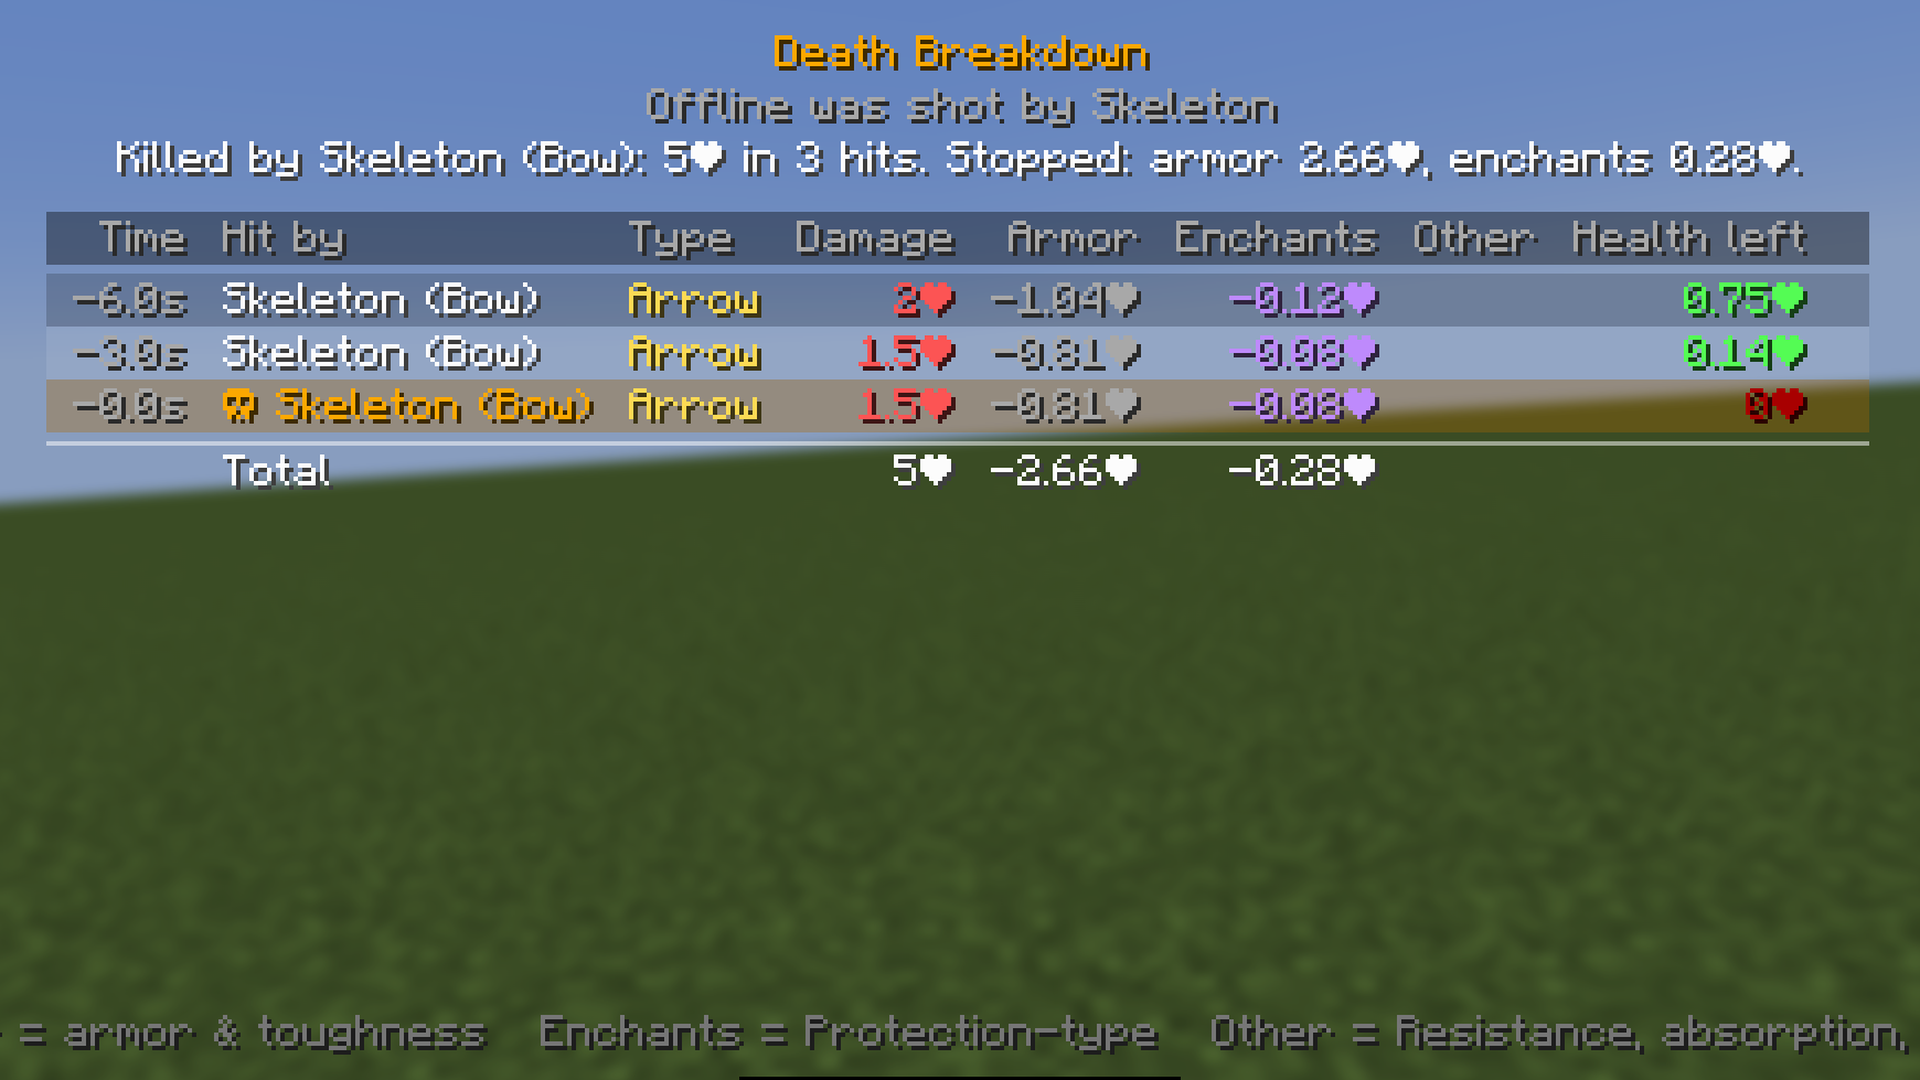
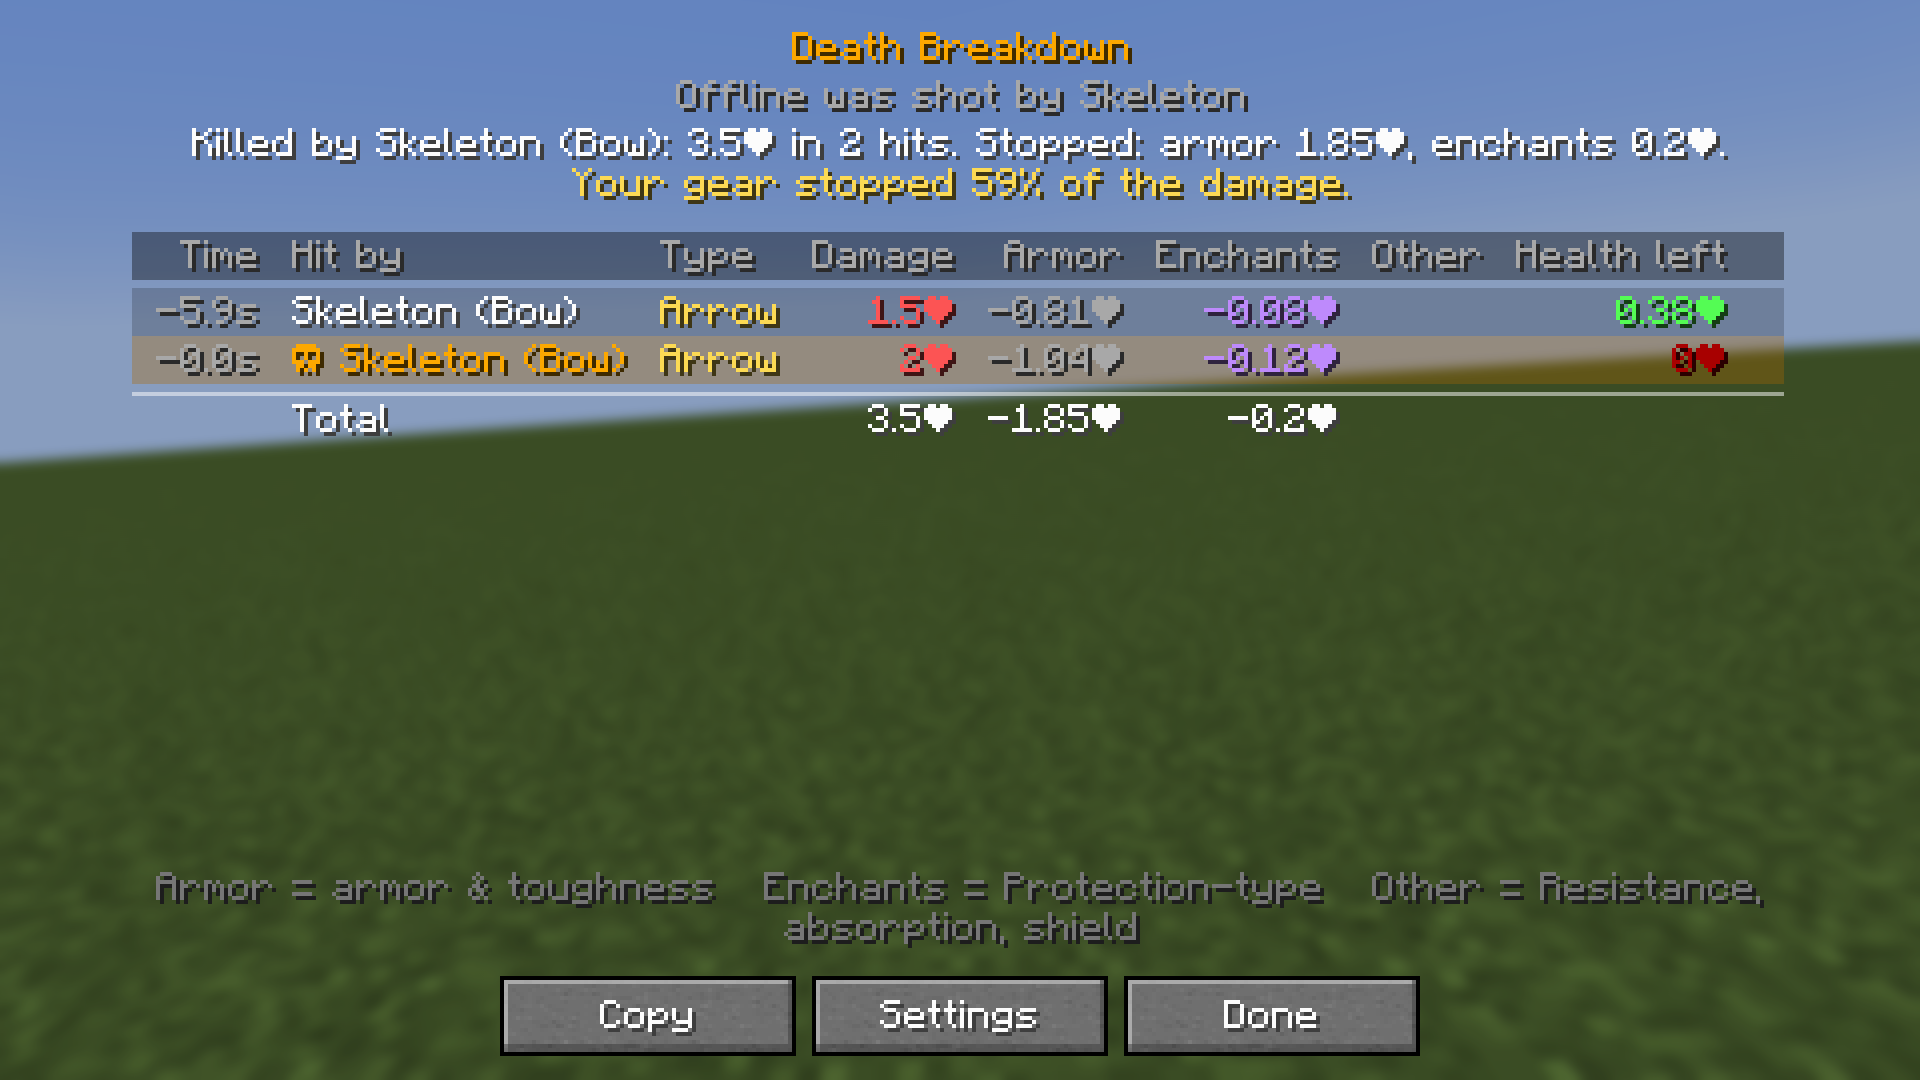
Recap legend wraps between entries, never inside one; 1.1.0 gallery shots picked (chat close-ups)
Claude-Session: https://claude.ai/code/session_018RUrFUNWZAZWJggZqgw4K9

Changed region(s): [[0.0, 0.0306, 1.0, 0.4889], [0.0, 0.7944, 1.0, 1.0], [0.7188, 0.7944, 0.9375, 0.8556]]

diff --git a/art/source/pick_shots.py b/art/source/pick_shots.py
@@ -1,0 +1,31 @@
+"""Copies the gallery screenshots (from the gallery-shots branch, downloaded to a folder) into art/gallery/shots.
+Chat pictures (taken at GUI scale 3) are cropped to the chat corner and scaled up to 1920x1080 so the text fills
+the frame. Everything else is used as taken. Usage: python3 pick_shots.py <downloaded folder> [mod|plugin|all]"""
+import os, shutil, sys
+from PIL import Image
+
+OUT = os.path.join(os.path.dirname(__file__), '..', 'gallery', 'shots')
+AS_IS = {
+    'mod': ['fight', 'death-screen', 'recap-mobs', 'recap-lava', 'recap-creeper', 'recap-hover', 'settings', 'key-binds', 'reopen'],
+    'plugin': ['fight', 'death-chat', 'chat-hover', 'book-mobs', 'book-mobs-page2', 'book-lava', 'book-creeper'],
+}
+CHAT = {'mod': ['chat-line', 'help', 'history'], 'plugin': ['help', 'history']}
+BOX = (0, 504, 1024, 1080)  # the chat corner at GUI scale 3 (16:9)
+
+
+def main(src, which):
+    os.makedirs(OUT, exist_ok=True)
+    for side in (['mod', 'plugin'] if which == 'all' else [which]):
+        for n in AS_IS[side]:
+            f = os.path.join(src, f'{side}-{n}.png')
+            if os.path.exists(f):
+                shutil.copy(f, os.path.join(OUT, f'{side}-{n}.png'))
+        for n in CHAT[side]:
+            f = os.path.join(src, f'{side}-{n}.png')
+            if os.path.exists(f):
+                Image.open(f).convert('RGB').crop(BOX).resize((1920, 1080), Image.LANCZOS).save(os.path.join(OUT, f'{side}-{n}.png'))
+    print('picked into', os.path.abspath(OUT))
+
+
+if __name__ == '__main__':
+    main(sys.argv[1], sys.argv[2] if len(sys.argv) > 2 else 'all')

diff --git a/core/src/main/java/com/cosmiclogic/deathbreakdown/core/RecapText.java b/core/src/main/java/com/cosmiclogic/deathbreakdown/core/RecapText.java
@@ -185,6 +185,24 @@ public final class RecapText {
     /** Explains the columns under the table; split into as many lines as the screen needs. */
     public static final String LEGEND = "Armor = armor & toughness   Enchants = Protection-type   Other = Resistance, absorption, shield";
 
+    /** Measures text in pixels (the game's font). */
+    public interface Width { int of(String s); }
+
+    /**
+     * Splits the legend into lines without breaking an entry ("Other = Resistance, absorption, shield" stays whole).
+     * An entry wider than {@code max} on its own gets its own line (the caller can word-wrap it).
+     */
+    public static java.util.List<String> legendLines(Width w, int max) {
+        java.util.List<String> out = new java.util.ArrayList<String>();
+        String cur = "";
+        for (String part : LEGEND.split("   ")) {
+            String t = cur.isEmpty() ? part : cur + "   " + part;
+            if (!cur.isEmpty() && w.of(t) > max) { out.add(cur); cur = part; } else cur = t;
+        }
+        if (!cur.isEmpty()) out.add(cur);
+        return out;
+    }
+
     /** "2 min ago", "just now", for the history list. */
     public static String ago(long thenMs, long nowMs) {
         long s = Math.max(0, (nowMs - thenMs) / 1000);

diff --git a/core/src/test/java/com/cosmiclogic/deathbreakdown/core/CoreTest.java b/core/src/test/java/com/cosmiclogic/deathbreakdown/core/CoreTest.java
@@ -425,6 +425,15 @@ public final class CoreTest {
         yes(!c.problems.isEmpty(), "folder reported");
     }
 
+    public static void testLegendKeepsEntriesWhole() {
+        RecapText.Width chars = new RecapText.Width() { public int of(String s) { return s.length(); } };
+        eq(1, RecapText.legendLines(chars, 500).size()); // wide window: one line
+        java.util.List<String> two = RecapText.legendLines(chars, 70);
+        eq(2, two.size());
+        eq("Other = Resistance, absorption, shield", two.get(1)); // never split inside an entry
+        eq(3, RecapText.legendLines(chars, 40).size());
+    }
+
     public static void testAllColumnsOffKeepsOne() throws Exception {
         File f = new File("build/coretest/cols-" + System.nanoTime() + ".properties");
         java.io.FileOutputStream o = new java.io.FileOutputStream(f);

diff --git a/ports/forge-1.12.2/src/main/java/com/cosmiclogic/deathbreakdown/legacy/RecapScreen112.java b/ports/forge-1.12.2/src/main/java/com/cosmiclogic/deathbreakdown/legacy/RecapScreen112.java
@@ -57,7 +57,11 @@ public class RecapScreen112 extends GuiScreen {
         summary = wrap(RecapText.summary(recap, hearts), Math.max(200, width - 40));
         if (summary.size() > 2) summary = summary.subList(0, 2);
         tip = DeathBreakdown112.config.showTip ? RecapText.tip(recap) : "";
-        legend = wrap(RecapText.LEGEND, Math.max(120, width - 20));
+        legend = new ArrayList<String>();
+        final int legendMax = Math.max(120, width - 20);
+        for (String l : RecapText.legendLines(new RecapText.Width() {
+            @Override public int of(String s) { return fontRenderer.getStringWidth(s); }
+        }, legendMax)) legend.addAll(wrap(l, legendMax));
         int y0 = history.size() > 1 ? 42 : 32;
         top = y0 + summary.size() * 10 + (tip.isEmpty() ? 0 : 10) + 8;
 

diff --git a/ports/src/common/com/cosmiclogic/deathbreakdown/client/RecapScreen.java b/ports/src/common/com/cosmiclogic/deathbreakdown/client/RecapScreen.java
@@ -95,7 +95,9 @@ public class RecapScreen extends Screen {
         summary = Draw.wrap(font, RecapText.summary(recap, hearts), Math.max(200, width - 40));
         if (summary.size() > 2) summary = summary.subList(0, 2);
         tip = DeathBreakdown.config.showTip ? RecapText.tip(recap) : "";
-        legend = Draw.wrap(font, RecapText.LEGEND, Math.max(120, width - 20));
+        legend = new ArrayList<>();
+        int legendMax = Math.max(120, width - 20);
+        for (String l : RecapText.legendLines(font::width, legendMax)) legend.addAll(Draw.wrap(font, l, legendMax));
         int y0 = history.size() > 1 ? 42 : 32;
         top = y0 + summary.size() * 10 + (tip.isEmpty() ? 0 : 10) + 8;
 
